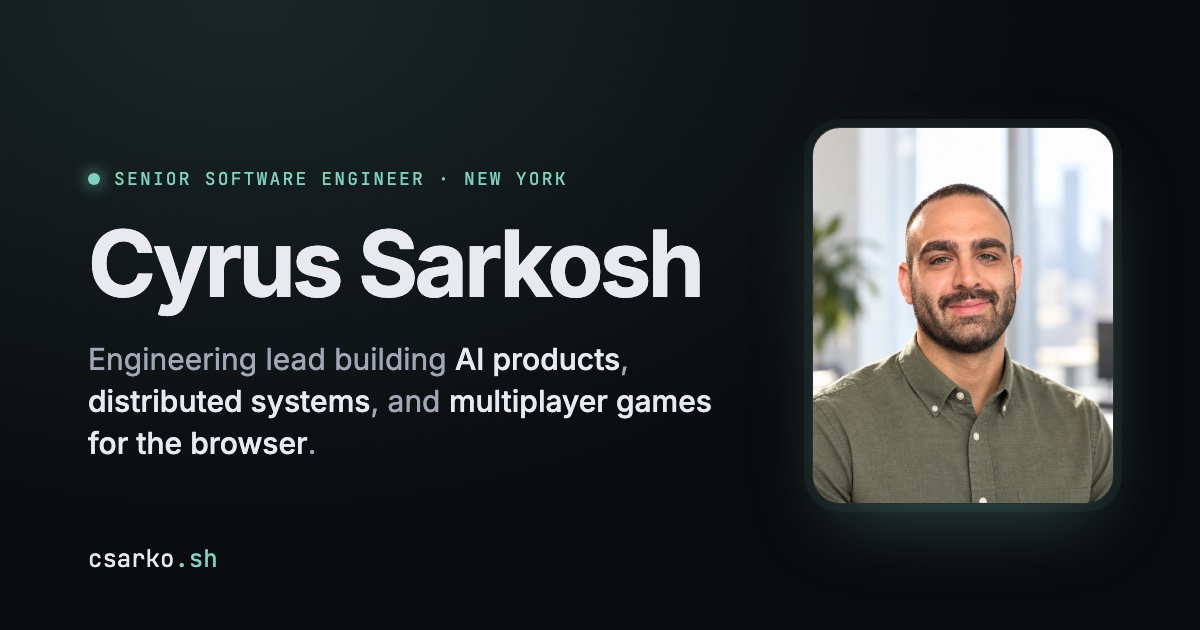
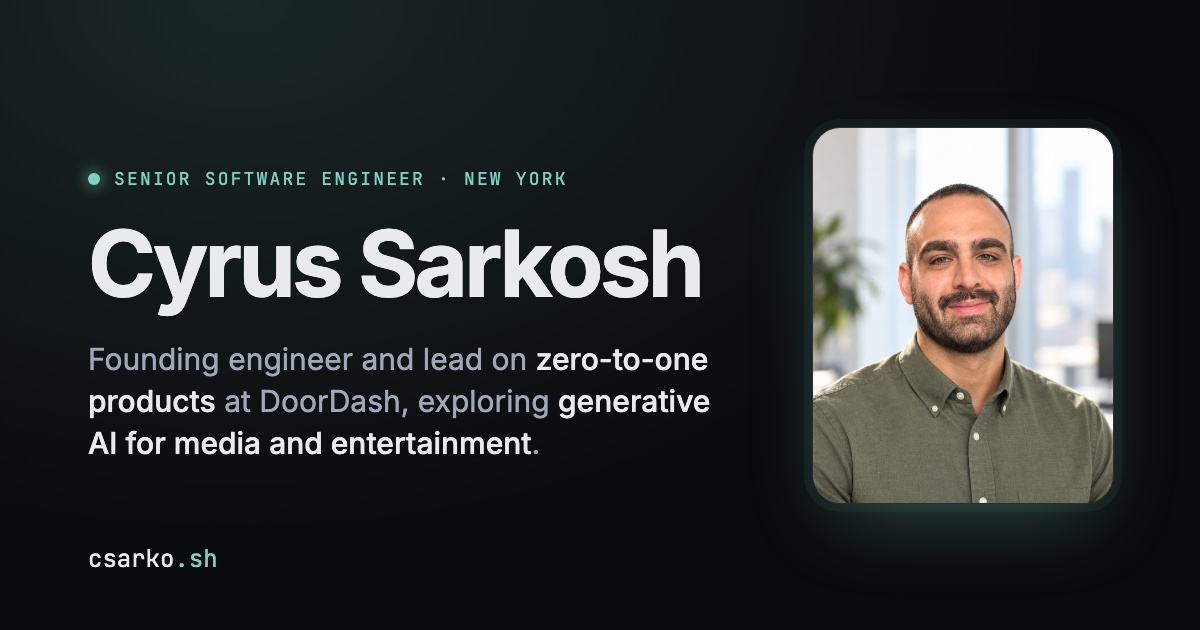
Lead with senior software engineer, broaden the gen-AI focus, add the csarko.sh repo card
The description and hero no longer pair "senior software engineer" with
"engineering lead". They now say founding engineer and lead on several
zero-to-one products at DoorDash, exploring generative AI for media and
entertainment. The share card and JSON-LD match. Also: "realtime" in the
Building tile, "generative media" in the contact line, and a full-width card
for this repo in Games & projects.

Claude-Session: https://claude.ai/code/session_01F3c2G7DuHTh67oERa9QvYk

Changed region(s): [[0.0617, 0.5429, 0.5858, 0.7238]]

diff --git a/public/index.html b/public/index.html
@@ -4,7 +4,7 @@
   <meta charset="utf-8" />
   <meta name="viewport" content="width=device-width, initial-scale=1" />
   <title>Cyrus Sarkosh · Senior Software Engineer</title>
-  <meta name="description" content="Cyrus Sarkosh is a New York–based senior software engineer and engineering lead building AI products, distributed systems, and browser games." />
+  <meta name="description" content="Cyrus Sarkosh is a New York–based senior software engineer who was the founding engineer and lead on several zero-to-one products at DoorDash." />
   <link rel="canonical" href="https://csarko.sh/" />
 
   <meta property="og:type" content="website" />
@@ -12,14 +12,14 @@
   <meta property="og:locale" content="en_US" />
   <meta property="og:url" content="https://csarko.sh/" />
   <meta property="og:title" content="Cyrus Sarkosh · Senior Software Engineer" />
-  <meta property="og:description" content="Engineering lead with 9+ years across distributed systems, product engineering, and AI products." />
+  <meta property="og:description" content="Senior software engineer with 9+ years across distributed systems, product engineering, and AI products." />
   <meta property="og:image" content="https://csarko.sh/og-image.jpg" />
   <meta property="og:image:width" content="1200" />
   <meta property="og:image:height" content="630" />
   <meta property="og:image:alt" content="Cyrus Sarkosh, Senior Software Engineer in New York, with his portrait" />
   <meta name="twitter:card" content="summary_large_image" />
   <meta name="twitter:title" content="Cyrus Sarkosh · Senior Software Engineer" />
-  <meta name="twitter:description" content="Engineering lead with 9+ years across distributed systems, product engineering, and AI products." />
+  <meta name="twitter:description" content="Senior software engineer with 9+ years across distributed systems, product engineering, and AI products." />
   <meta name="twitter:image" content="https://csarko.sh/og-image.jpg" />
   <meta name="twitter:image:alt" content="Cyrus Sarkosh, Senior Software Engineer in New York, with his portrait" />
 
@@ -44,7 +44,7 @@
       "url": "https://csarko.sh/",
       "image": "https://csarko.sh/portrait.jpg",
       "jobTitle": "Senior Software Engineer",
-      "description": "Engineering lead building AI products, distributed systems, and multiplayer games for the browser.",
+      "description": "Senior software engineer who was the founding engineer and lead on several zero-to-one products at DoorDash, now exploring generative AI for media and entertainment.",
       "homeLocation": {
         "@type": "Place",
         "name": "New York, NY"
@@ -256,6 +256,7 @@
     .card-link { margin-top: 18px; font-size: 14px; font-weight: 500; color: var(--accent); display: inline-flex; align-items: center; gap: 6px; }
     .card-link svg { width: 14px; height: 14px; transition: transform .18s ease; }
     .card:hover .card-link svg { transform: translate(2px, -2px); }
+    .card.wide { grid-column: 1 / -1; }
     .card.placeholder { border-style: dashed; border-color: var(--border-strong); background: transparent; }
     .card.placeholder:hover { transform: none; border-color: var(--border-strong); background: transparent; }
     .card.placeholder .card-link { color: var(--faint); }
@@ -326,9 +327,9 @@
       <p class="eyebrow">Senior Software Engineer · New York</p>
       <h1>Cyrus Sarkosh</h1>
       <p class="lead">
-        Engineering lead with 9+ years across distributed systems, product engineering, and AI.
-        At DoorDash I've taken <strong>two products from zero to one</strong>, and in my spare time
-        I build <strong>multiplayer games that run in the browser</strong>.
+        Senior software engineer with 9+ years across distributed systems, product engineering, and AI.
+        At DoorDash I was the <strong>founding engineer and lead on several zero-to-one products</strong>, and
+        I've been exploring <strong>generative AI for media and entertainment</strong>, starting with game development.
       </p>
       <div class="actions">
         <a class="btn primary" href="https://www.linkedin.com/in/csarkosh" target="_blank" rel="noopener">
@@ -360,7 +361,7 @@
       <li class="value">
         <div class="icon"><svg viewBox="0 0 24 24" fill="none" stroke="currentColor" stroke-width="2" stroke-linecap="round" stroke-linejoin="round" aria-hidden="true"><rect x="2" y="7" width="20" height="10" rx="5"/><path d="M7 10v4M5 12h4"/><circle cx="15.5" cy="11" r=".6"/><circle cx="18" cy="13" r=".6"/></svg></div>
         <p class="label">Building</p>
-        <p><a class="inline-link" href="https://games.csarko.sh/dayhike/" target="_blank" rel="noopener">Day Hike</a>, a co-op survival horror game for the browser.</p>
+        <p><a class="inline-link" href="https://games.csarko.sh/dayhike/" target="_blank" rel="noopener">Day Hike</a>, a realtime co-op survival horror game for the browser.</p>
       </li>
       <li class="value">
         <div class="icon"><svg viewBox="0 0 24 24" fill="none" stroke="currentColor" stroke-width="2" stroke-linecap="round" stroke-linejoin="round" aria-hidden="true"><path d="M12 20h9"/><path d="M16.5 3.5a2.1 2.1 0 0 1 3 3L7 19l-4 1 1-4Z"/></svg></div>
@@ -487,6 +488,15 @@
             <svg viewBox="0 0 24 24" fill="none" stroke="currentColor" stroke-width="2" stroke-linecap="round" stroke-linejoin="round" aria-hidden="true"><path d="M7 17 17 7M8 7h9v9"/></svg>
           </span>
         </a>
+        <a class="card wide" href="https://github.com/csarkosh/csarko.sh" target="_blank" rel="noopener">
+          <p class="card-kicker">Open source · This site</p>
+          <h3>csarko.sh</h3>
+          <p class="card-desc">A portfolio site managed entirely by AI agents. Agent skills handle previews, deploys, and site optimization, keeping SEO, accessibility, performance, and security in check on every change.</p>
+          <ul class="tags"><li>Claude Code</li><li>Agent skills</li><li>Firebase Hosting</li><li>Terraform</li></ul>
+          <span class="card-link">View on GitHub
+            <svg viewBox="0 0 24 24" fill="none" stroke="currentColor" stroke-width="2" stroke-linecap="round" stroke-linejoin="round" aria-hidden="true"><path d="M7 17 17 7M8 7h9v9"/></svg>
+          </span>
+        </a>
       </div>
     </section>
 
@@ -528,7 +538,7 @@
     <section id="contact" class="contact" aria-labelledby="contact-title">
       <p class="section-label">04 / Contact</p>
       <h2 id="contact-title">Let's talk.</h2>
-      <p>I'm always happy to talk about AI products, distributed systems, engineering leadership, or browser games.</p>
+      <p>I'm always happy to talk about AI products, distributed systems, engineering leadership, or generative media.</p>
       <div class="actions">
         <a class="btn primary" href="https://www.linkedin.com/in/csarkosh" target="_blank" rel="noopener">Message me on LinkedIn</a>
         <a class="btn" href="https://github.com/csarkosh" target="_blank" rel="noopener">GitHub</a>

diff --git a/.agents/skills/site-quality/assets/og-image.html b/.agents/skills/site-quality/assets/og-image.html
@@ -41,7 +41,7 @@
   <div>
     <p class="eyebrow">Senior Software Engineer · New York</p>
     <h1>Cyrus Sarkosh</h1>
-    <p>Engineering lead building <strong>AI products</strong>, <strong>distributed systems</strong>, and <strong>multiplayer games for the browser</strong>.</p>
+    <p>Founding engineer and lead on <strong>zero-to-one products</strong> at DoorDash, exploring <strong>generative AI for media and entertainment</strong>.</p>
   </div>
   <div class="portrait"><img src="portrait-source.jpg" alt="" /></div>
   <div class="url">csarko<span>.sh</span></div>

diff --git a/AGENTS.md b/AGENTS.md
@@ -91,6 +91,15 @@ Three sources, each for a different question. **Pick by the question, not by hab
   Engineer" (he was the *de facto* lead — say "engineering lead" in prose, never
   "Tech Lead" as a title); Voice AI was sunset, so never imply it's still running.
 - **Frame him as a lead**, not a supporting engineer.
+- **Headline identity is "senior software engineer"** *(Cyrus, 2026-09-13)*: the
+  search description, hero, share card and JSON-LD say he's a senior software
+  engineer who was the **founding engineer and lead on several zero-to-one
+  products at DoorDash**. Don't pair "senior software engineer" with "engineering
+  lead" there; it reads as two conflicting titles. "Founding engineer and lead
+  on…" is fine: it describes his role on those products, not a second title. The
+  hero's second clause is exploring generative AI for media and entertainment,
+  starting with game development; keep it broad, not games-only (he may move to
+  short films later, but that's not on the page).
 - **The Experience section stays high-level** *(Cyrus, 2026-09-11)*: for each role, a
   short description of the product and his general role on it, plus tech tags.
   **No metrics, customer names, or accomplishment bullets** (ARR, merchant counts,
@@ -101,8 +110,9 @@ Three sources, each for a different question. **Pick by the question, not by hab
 - **No em-dashes in page copy**; commas, colons, semicolons.
 - **Games section:** Day Hike (playable, links to
   `https://games.csarko.sh/dayhike/`), a **`game-dayhike` "Coming soon"
-  placeholder** (a non-clickable `div.card.placeholder`), and
-  `electron-gamepatch`. When `github.com/csarkosh/game-dayhike` goes public, turn
+  placeholder** (a non-clickable `div.card.placeholder`), `electron-gamepatch`,
+  and a full-width `csarko.sh` card (`.card.wide`, *added 2026-09-13*) linking
+  `github.com/csarkosh/csarko.sh` as a demo of a site managed entirely by agents. When `github.com/csarkosh/game-dayhike` goes public, turn
   the placeholder into `<a class="card" href="...">` with a "View on GitHub" link
   (there's an HTML comment marking the spot). **The asset pipeline is being
   commercialized** — never describe it as open source or part of that repo.
